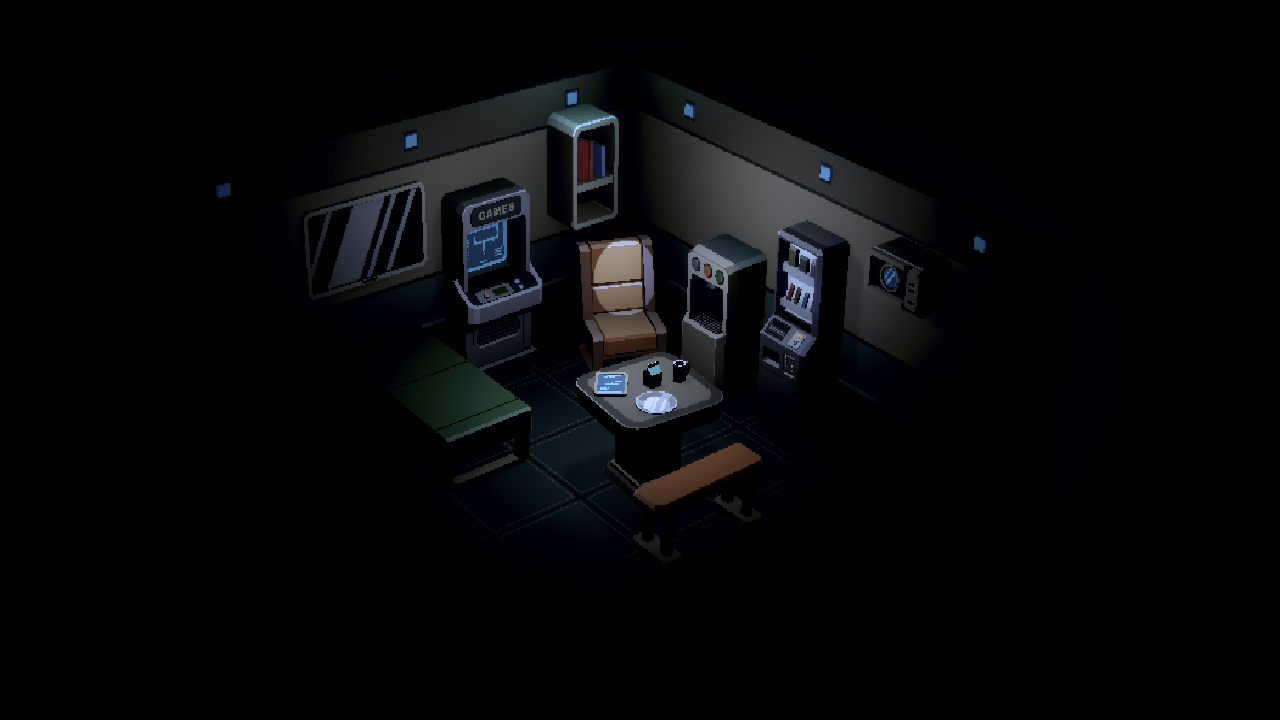
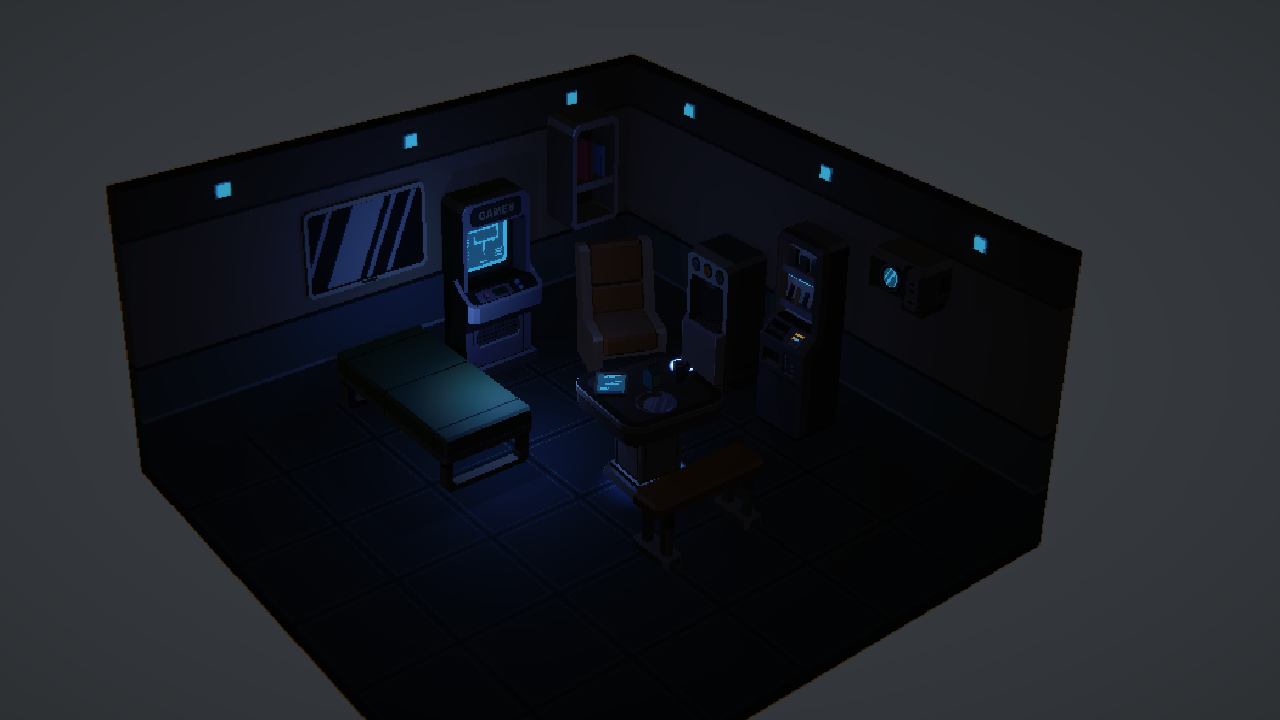
Retry loop: real conversation history instead of a flattened recap
attempt_history now alternates real assistant/user turns (agent's
serialized decision, then the feedback that followed) instead of
rebuilding one giant string each attempt. _serialize_decision() is a
hybrid of prose (reasoning/changes_summary -- narrative judgment,
nothing structural to gain from JSON) and small JSON blocks for the
parts where precision matters: the agent's light_role_assignments
CLAIMS, the VERIFIED lever/light diff (never decision.lever_accounting
self-report), and critically the REAL light state after the attempt
(get_light_properties, not self-report) placed right beside the role
claims -- so a future attempt can see 'I called light X my KEY' next
to 'light X's real intensity was Y', closing the claim-vs-reality gap
light_role_assignments exists to expose. This content (light role
claims) was never fed back at all under the old flattened-string
mechanism.

Deliberately did NOT extend this to the judge -- it stays stateless/
fresh every call, a judge with memory of its own past scores would be
tempted to grade a 'trying to improve' frame higher regardless of
whether the frame itself earned it. Continuity belongs on the agent
side, which needs to notice repeated failed claims; the judge's job is
an independent read of the actual pixels every time.

Verified live end-to-end, no errors. Noticed a good sign in the same
run: the agent's own role claims evolved coherently attempt to attempt
(original fixtures fill -> practical -> unused_this_attempt as it
[…]

diff --git a/agent/src/unity_mood_lighting_agent/main.py b/agent/src/unity_mood_lighting_agent/main.py
@@ -10,6 +10,17 @@ up and report the last judgement if still failing. Each retry re-reads the
 CURRENT live scene state (get_scene_context()), not the original state —
 attempt 2 builds on whatever attempt 1 actually left in the scene.
 
+Retry feedback is REAL conversation history (2026-11-26, Eran's call), not
+a flattened recap string rebuilt each attempt — attempt_history alternates
+real assistant turns (the agent's own serialized decision, including its
+light_role_assignments claims) and user turns (guardrail or judge
+feedback). Deliberately asymmetric with judge.py: the judge stays
+stateless/fresh every call (a judge with memory of its own past verdicts
+would be tempted to score a "trying to improve" frame higher regardless
+of whether it deserves it) — only the agent gets continuity, since it's
+the one that needs to notice "I claimed this light was KEY last attempt
+and it still didn't work."
+
 Every run appends one row to mood_test_log.jsonl (task, attempts, final
 score, pass/fail, notes) — Eran asked for a persistent record of mood
 test results after compiling docs/mood-test-results.md by hand from
@@ -303,6 +314,52 @@ def _describe_lever_diff(before: dict, after: dict) -> str:
         if field_diffs:
             lines.append(f"    {key}: " + "; ".join(field_diffs))
     return "\n".join(lines) if lines else "    (no scene-state change detected)"
+
+
+def _serialize_decision(
+    attempt: int,
+    decision: LightingDecision,
+    attempt_levers: set[str],
+    created_lights: set[str],
+    deleted_lights: set[str],
+    real_light_state: list[dict],
+) -> str:
+    """Build the assistant-turn text fed back as real conversation history
+    (2026-11-26, Eran's call) — hybrid prose+JSON, not one giant JSON blob:
+    reasoning/changes_summary are narrative judgment with nothing
+    structural to represent, so they stay plain prose, matching every
+    other agent-facing text in this file (get_scene_context() etc). The
+    parts that ARE records (role claims, the VERIFIED diff, real light
+    state) go in as JSON, where precision matters and paraphrasing would
+    lose it. role_assignments is the agent's CLAIM; real_light_state is
+    what's actually true (from get_light_properties, not self-report) —
+    deliberately placed side by side so a future attempt can see "I called
+    light X my KEY" next to "light X's real intensity was Y", closing the
+    claim-vs-reality gap the whole light_role_assignments field exists
+    to expose. attempt_levers/created_lights/deleted_lights are the
+    VERIFIED diff (_diff_levers), never decision.lever_accounting's
+    self-report — same principle already applied to the console log."""
+    role_json = json.dumps(
+        [
+            {"instance_id": a.instance_id, "role": a.role.value, "reasoning": a.reasoning}
+            for a in decision.light_role_assignments
+        ],
+        indent=2,
+    )
+    state_json = json.dumps(real_light_state, indent=2)
+    return (
+        f"YOUR DECISION (attempt {attempt}):\n"
+        f"Reasoning: {decision.reasoning}\n\n"
+        f"Your role assignments:\n{role_json}\n\n"
+        f"VERIFIED changes (real scene diff, not self-report):\n"
+        f"levers changed: {sorted(attempt_levers)}\n"
+        f"lights created: {sorted(created_lights)}\n"
+        f"lights deleted: {sorted(deleted_lights)}\n\n"
+        f"Real light state after this attempt (not your claim — ground truth):\n{state_json}\n\n"
+        f"Changes summary: {decision.changes_summary}"
+    )
+
+
 SCREENSHOTS_DIR = REPO_ROOT / "screenshots"
 
 
@@ -439,8 +496,9 @@ async def run(task: str, case_name: str | None = None, scene_path: str | None = 
     shutil.copyfile(baseline_shot.path, latest_dir / "baseline.png")
     print(f"[screenshot] baseline saved: {baseline_shot.path} (+ latest/)")
 
-    feedback = ""  # judge's notes from the previous failed attempt, if any
-    attempt_history: list[dict] = []  # every prior attempt's own summary + score, oldest first
+    feedback = ""  # guardrail/judge message from THIS iteration, turned into a history turn before the next loop pass
+    attempt_history: list[dict] = []  # REAL conversation turns (role/content), not a flattened string recap — alternates assistant (own decision) / user (feedback)
+    scores_this_run: list[int] = []  # real judge scores only, for the stall-detection nudge below — guardrail-only rejections never reach the judge so don't count here
 
     with trace(
         workflow_name="mood_lighting_agent",
@@ -462,25 +520,15 @@ async def run(task: str, case_name: str | None = None, scene_path: str | None = 
                     "near-black much later. This does not apply to soft/diffuse moods where a gentle "
                     "intensity genuinely is the right choice."
                 )
-            if attempt_history:
-                history_lines = "\n".join(
-                    f"- Attempt {h['attempt']}: you did \u2014 {h['action']} \u2192 judge score {h['score']}/10. "
-                    f"Judge said: {h['notes']}"
-                    for h in attempt_history
+            if len(scores_this_run) >= 2 and scores_this_run[-1] <= scores_this_run[-2]:
+                prompt_text += (
+                    "\n\nNOTE: your score did NOT improve (or got worse) on the last "
+                    "attempt despite the change you made. Pushing the same lever "
+                    "harder is not working \u2014 try a DIFFERENT lever this time (e.g. if "
+                    "you've been adding/intensifying lights, try color grading/vignette/"
+                    "fog instead, or vice versa; or change composition \u2014 fewer, more "
+                    "deliberate color choices instead of more lights)."
                 )
-                prompt_text += f"\n\nPrevious attempts this run (oldest first):\n{history_lines}"
-                scores = [h["score"] for h in attempt_history]
-                if len(scores) >= 2 and scores[-1] <= scores[-2]:
-                    prompt_text += (
-                        "\n\nNOTE: your score did NOT improve (or got worse) on the last "
-                        "attempt despite the change you made. Pushing the same lever "
-                        "harder is not working \u2014 try a DIFFERENT lever this time (e.g. if "
-                        "you've been adding/intensifying lights, try color grading/vignette/"
-                        "fog instead, or vice versa; or change composition \u2014 fewer, more "
-                        "deliberate color choices instead of more lights)."
-                    )
-            if feedback:
-                prompt_text += f"\n\n{feedback}"
             if levers_touched_this_run:
                 never_touched = sorted({lv.value for lv in Lever} - levers_touched_this_run)
                 prompt_text += (
@@ -504,15 +552,18 @@ async def run(task: str, case_name: str | None = None, scene_path: str | None = 
             # get_scene_context() re-reading fresh each time.
             capture = capture_game_view()
             image_url = image_to_data_url(capture.path)
-            prompt = [
-                {
-                    "role": "user",
-                    "content": [
-                        {"type": "input_text", "text": prompt_text},
-                        {"type": "input_image", "image_url": image_url},
-                    ],
-                }
-            ]
+            current_turn = {
+                "role": "user",
+                "content": [
+                    {"type": "input_text", "text": prompt_text},
+                    {"type": "input_image", "image_url": image_url},
+                ],
+            }
+            # attempt_history carries real prior turns (2026-11-26, Eran's
+            # call) — the agent's own serialized decision + the feedback
+            # that followed it, alternating, instead of a flattened recap
+            # string rebuilt from scratch each time.
+            prompt = attempt_history + [current_turn]
 
             result = await Runner.run(agent, prompt)
             decision: LightingDecision = result.final_output
@@ -532,12 +583,23 @@ async def run(task: str, case_name: str | None = None, scene_path: str | None = 
             )
             for assignment in decision.light_role_assignments:
                 print(f"  [role] {assignment.instance_id}: {assignment.role.value} — {assignment.reasoning}")
+            real_light_state = []
             for o in list_scene_transforms():
                 if o.is_light:
                     lp = get_light_properties(o.instance_id)
                     print(
                         f"  [light] {o.name}: intensity={lp.intensity} range={lp.range} "
                         f"shadow_type={lp.shadow_type} color=({lp.color_r:.2f},{lp.color_g:.2f},{lp.color_b:.2f})"
+                    )
+                    real_light_state.append(
+                        {
+                            "instance_id": o.instance_id,
+                            "name": o.name,
+                            "intensity": lp.intensity,
+                            "range": lp.range,
+                            "shadow_type": lp.shadow_type,
+                            "color": [round(lp.color_r or 0.0, 2), round(lp.color_g or 0.0, 2), round(lp.color_b or 0.0, 2)],
+                        }
                     )
 
             # Deterministic lever-usage diff, same scene-reads as above —
@@ -554,6 +616,20 @@ async def run(task: str, case_name: str | None = None, scene_path: str | None = 
                 f"  [levers] verified_changed={sorted(attempt_levers)} "
                 f"self_reported_changed={sorted(self_reported)}"
                 + (f" MISMATCH={sorted(mismatch)}" if mismatch else "")
+            )
+
+            # Real conversation turn, not a flattened recap (2026-11-26,
+            # Eran's call) — this attempt's actual decision goes into
+            # attempt_history as an assistant turn; the feedback that
+            # follows (guardrail or judge) becomes the paired user turn
+            # below, at whichever branch this attempt falls into.
+            attempt_history.append(
+                {
+                    "role": "assistant",
+                    "content": _serialize_decision(
+                        attempt, decision, attempt_levers, created_lights, deleted_lights, real_light_state
+                    ),
+                }
             )
 
             # Pre-render grading-severity guardrail (2026-11-25, Eran's
@@ -582,6 +658,7 @@ async def run(task: str, case_name: str | None = None, scene_path: str | None = 
                     "instead, grading should be a light-touch finishing pass, not the primary "
                     "dramatic mechanism."
                 )
+                attempt_history.append({"role": "user", "content": [{"type": "input_text", "text": feedback}]})
                 if attempt == MAX_ATTEMPTS:
                     _log_guardrail_rejection(
                         task, attempt, "grading_severity", {"severity": severity}, case_name, run_started_at,
@@ -615,6 +692,7 @@ async def run(task: str, case_name: str | None = None, scene_path: str | None = 
                     "can't serve this mood, create_light/create_light_near a NEW light exactly where "
                     "the mood needs one instead of only retuning what's already there."
                 )
+                attempt_history.append({"role": "user", "content": [{"type": "input_text", "text": feedback}]})
                 if attempt == MAX_ATTEMPTS:
                     _log_guardrail_rejection(
                         task, attempt, "no_transform_change", {}, case_name, run_started_at,
@@ -651,6 +729,7 @@ async def run(task: str, case_name: str | None = None, scene_path: str | None = 
                     "again, then re-apply the mood more moderately — commit to the mood through "
                     "color/contrast/shadow shape, not by erasing the image."
                 )
+                attempt_history.append({"role": "user", "content": [{"type": "input_text", "text": feedback}]})
                 if attempt == MAX_ATTEMPTS:
                     _log_guardrail_rejection(
                         task, attempt, "visibility",
@@ -709,6 +788,7 @@ async def run(task: str, case_name: str | None = None, scene_path: str | None = 
                             "range much further (near-off, not just dimmer) so large areas of the frame are "
                             "genuinely near-black, not just dimmer than your key light."
                         )
+                    attempt_history.append({"role": "user", "content": [{"type": "input_text", "text": feedback}]})
                     if attempt == MAX_ATTEMPTS:
                         _log_guardrail_rejection(
                             task, attempt, "contrast",
@@ -760,6 +840,7 @@ async def run(task: str, case_name: str | None = None, scene_path: str | None = 
                             "baseline in its own pool, and check whether global grading (post_exposure/"
                             "contrast/vignette) is eating the gain the light created."
                         )
+                        attempt_history.append({"role": "user", "content": [{"type": "input_text", "text": feedback}]})
                         if attempt == MAX_ATTEMPTS:
                             _log_guardrail_rejection(
                                 task, attempt, "key_light_p90_lift",
@@ -777,7 +858,7 @@ async def run(task: str, case_name: str | None = None, scene_path: str | None = 
                         continue  # skip the judge entirely, retry without burning that call
 
             passed, judgement = await judge_mood_match(task, image_path=post_attempt_capture.path)
-            feedback = ""  # guardrail message (if any) consumed by this attempt, clear it
+            scores_this_run.append(judgement.mood_match_score)
 
             print(
                 f"[attempt {attempt}/{MAX_ATTEMPTS}] agent archetype={decision.mood_breakdown.strategy_archetype.value} "
@@ -794,12 +875,18 @@ async def run(task: str, case_name: str | None = None, scene_path: str | None = 
                 print(f"[screenshot] result saved: {post_attempt_capture.path} (+ latest/)")
                 return f"Success on attempt {attempt}: {judgement.reasoning}"
 
+            # Real user turn (2026-11-26, Eran's call), paired with this
+            # attempt's assistant turn already appended above — the judge's
+            # actual score+reasoning, not a flattened recap string.
             attempt_history.append(
                 {
-                    "attempt": attempt,
-                    "action": decision.changes_summary,
-                    "score": judgement.mood_match_score,
-                    "notes": judgement.reasoning,
+                    "role": "user",
+                    "content": [
+                        {
+                            "type": "input_text",
+                            "text": f"JUDGE FEEDBACK:\nScore: {judgement.mood_match_score}/10\n{judgement.reasoning}",
+                        }
+                    ],
                 }
             )
             if attempt == MAX_ATTEMPTS:

diff --git a/docs/mood-test-results.md b/docs/mood-test-results.md
@@ -1986,3 +1986,49 @@ that was silently 10x too small for this specific scene's real render
 math this entire project's history, and no "well-lit" result ever
 proved otherwise because ambient (unrelated to this bug) was carrying
 almost all of the visible brightness in every prior "good" scene.
+
+## 2026-11-26 (cont'd): real conversation history for the retry loop, not a flattened recap
+
+Eran raised that the judge itself is correctly stateless (fresh call
+every attempt, no memory of its own past verdicts — deliberately kept
+that way, a stateful judge risks anchoring/grade-inflating toward its
+own past opinion rather than judging the actual frame), but the
+LIGHTING AGENT's own retry loop had no real continuity either — just a
+flattened text recap rebuilt from scratch each attempt
+(`changes_summary` + judge reasoning pasted as prose), missing the one
+thing that actually matters for its own self-consistency:
+`light_role_assignments`, its own per-light KEY/FILL/RIM/PRACTICAL
+claims, was never fed back at all.
+
+Replaced it with real alternating conversation turns in
+`attempt_history` (assistant: the agent's own decision; user: the
+feedback that followed), instead of one re-flattened string. Each
+assistant turn (`_serialize_decision()`) is a hybrid of prose (narrative
+judgment — `reasoning`, `changes_summary`, nothing structural to
+represent) and small JSON blocks (where precision matters and
+paraphrasing would lose it): the agent's role-assignment CLAIMS, the
+VERIFIED lever diff (never `decision.lever_accounting`'s self-report,
+same principle already applied elsewhere), and — the key addition —
+the REAL light state after the attempt (`get_light_properties`, not
+self-report), placed right next to the role claims so a future attempt
+can literally see "I called light X my KEY" beside "light X's real
+intensity was Y", closing the claim-vs-reality gap the whole
+`light_role_assignments` field exists to expose.
+
+Decided NOT to give the judge this same treatment — a stateful judge
+would be tempted to bump a score just because the agent "tried to
+improve," independent of whether the new frame actually deserves it.
+The judge stays fresh and independent every call; only the lighting
+agent gets real continuity.
+
+Verified live: ran end-to-end with no errors. Noticed a good
+qualitative sign in the SAME run — the agent's own role claims evolved
+coherently turn to turn (the two original fixtures went fill → practical
+→ unused_this_attempt as it kept concentrating real lighting work into
+its own newly-created lights), consistent with it actually tracking its
+own prior claims now instead of re-deriving them from scratch each
+attempt. Final frame legible and consistent with recent quality (chair/
+bed/arcade cabinet clearly visible, real cold falloff) — this change is
+a mechanism improvement, not itself a mood-quality fix, so no dramatic
+score jump expected from it alone; the main.py docstring's description
+of the retry loop was updated to match.
